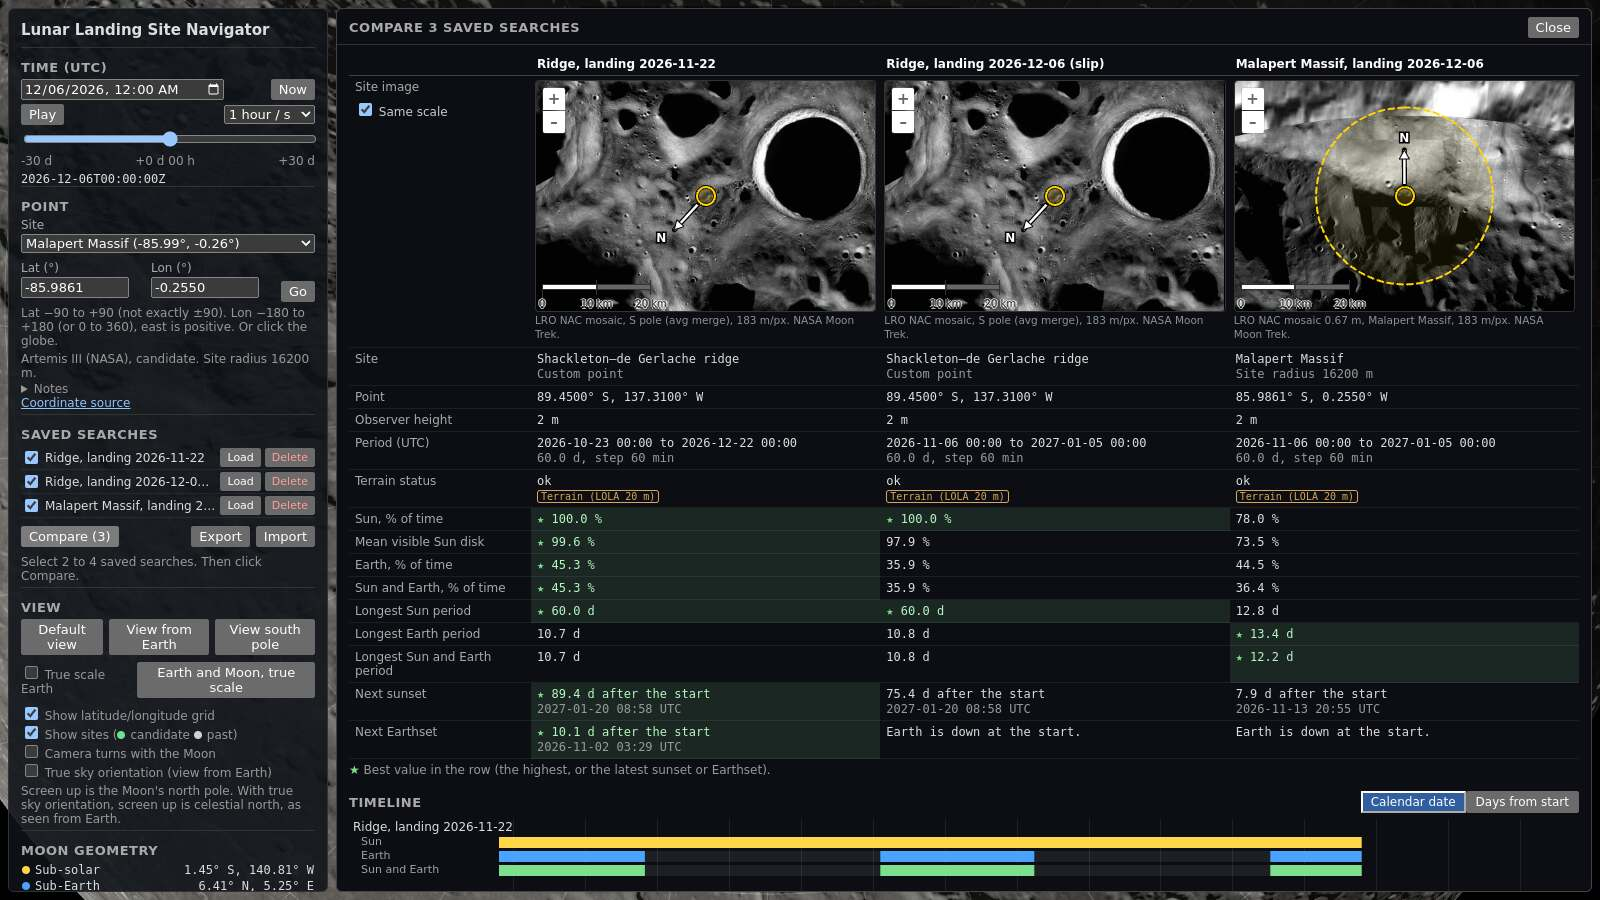
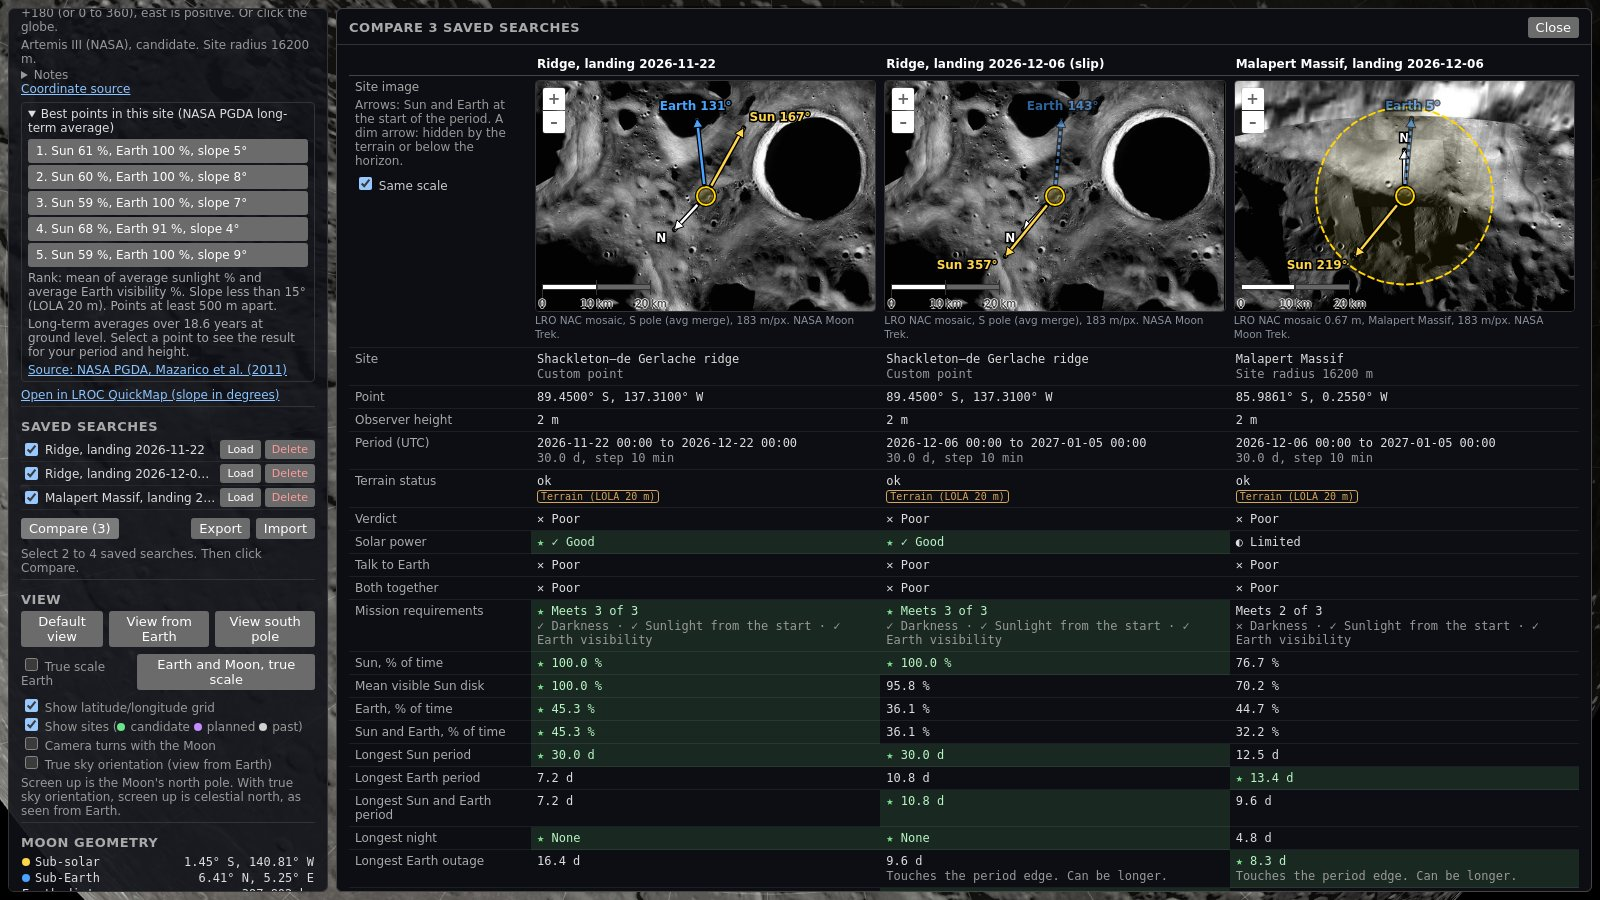
docs(guide): new overview and compare screenshots, legend for the Verdict tab
Claude-Session: https://claude.ai/code/session_013mxnkUMsKwA6gg6ceziP3G

diff --git a/ui/guide.html b/ui/guide.html
@@ -76,22 +76,22 @@
         <section id="screen">
           <h2>3. The screen <a class="anchor" href="#screen" aria-label="Link to this section">#</a></h2>
           <figure>
-            <img src="/guide/overview-annotated.jpg" width="1600" height="900" alt="The tool screen with numbered markers: 1 time, 2 point, 3 saved searches, 4 view buttons, 5 globe, 6 results with countdowns, 7 observer height, 8 sky plot, 9 site map, 10 edge arrows." />
-            <figcaption>Shackleton–de Gerlache ridge on 2026-11-22 at 00:00 UTC. The numbers refer to the list below.</figcaption>
+            <img src="/guide/overview-annotated.jpg" width="1600" height="900" alt="The tool screen with numbered markers: 1 time and period, 2 point, 3 saved searches, 4 view buttons, 5 globe, 6 results tabs, 7 mission requirements, 8 next landing window, 9 site map, 10 edge arrows." />
+            <figcaption>Shackleton–de Gerlache ridge, 1 month from 2026-11-22 00:00 UTC, with the <span class="ui">Verdict</span> tab open. The numbers refer to the list below.</figcaption>
           </figure>
           <ol class="legend">
             <li><span class="marker">1</span><strong>Time and period (left panel).</strong> The start, the duration, the slider and <span class="ui">Play</span>. See <a href="#time">Time and period</a>.</li>
-            <li><span class="marker">2</span><strong>Point (left panel).</strong> The site list and the latitude and longitude fields. See <a href="#site">Select a site</a>.</li>
+            <li><span class="marker">2</span><strong>Point (left panel).</strong> The place search, the site list, the latitude and longitude fields, and <span class="ui">↶ Back</span> and <span class="ui">↷ Forward</span>. See <a href="#site">Select a site</a>.</li>
             <li><span class="marker">3</span><strong>Saved searches (left panel).</strong> See <a href="#compare">Save and compare</a>.</li>
             <li><span class="marker">4</span><strong>View (left panel).</strong> The camera buttons for the globe. See <a href="#globe">The globe views</a>.</li>
             <li><span class="marker">5</span><strong>Globe.</strong> The Moon with the lit half, the grid and the sites. Drag to turn it. Use the mouse wheel to zoom.</li>
-            <li><span class="marker">6</span><strong>Results panel (right).</strong> It has two tabs. <span class="ui">Verdict</span> gives a short answer for the period (see <a href="#verdict">Verdict</a>). <span class="ui">Details</span> gives the selected point, the horizon tag and the two countdowns (see <a href="#results">Read the results</a>). The screenshot shows the <span class="ui">Details</span> tab.</li>
-            <li><span class="marker">7</span><strong>Observer height.</strong> It is in both tabs. See <a href="#height">Observer height</a>.</li>
-            <li><span class="marker">8</span><strong>Sky plot.</strong> The local sky over the period, in the <span class="ui">Details</span> tab. See <a href="#sky-plot">The sky plot</a>.</li>
+            <li><span class="marker">6</span><strong>Results panel (right).</strong> It has two tabs. <span class="ui">Verdict</span> gives a short answer for the period (see <a href="#verdict">Verdict</a>). <span class="ui">Details</span> gives the selected point, the horizon tag, the two countdowns and the sky plot (see <a href="#details-tab">Details</a>). The screenshot shows the <span class="ui">Verdict</span> tab.</li>
+            <li><span class="marker">7</span><strong>Mission requirements.</strong> Three limits with ✓, ✕ or ?. See <a href="#mission-requirements">Mission requirements</a>.</li>
+            <li><span class="marker">8</span><strong>Next landing window.</strong> See <a href="#landing-window">Next landing window</a>. Below it, the <span class="ui">Verdict</span> tab has the observer height (see <a href="#height">Observer height</a>) and <span class="ui">Save search</span>. Scroll the panel to see them.</li>
             <li><span class="marker">9</span><strong>Site map.</strong> NASA images of the site, with Sun and Earth arrows. See <a href="#map">The site map</a>.</li>
             <li><span class="marker">10</span><strong>Edge arrows.</strong> "To the Sun" and "To the Earth" point to a body that is off the screen.</li>
           </ol>
-          <p>In the <span class="ui">Details</span> tab, below the sky plot, the results panel also has the result for the period, the event list and <span class="ui">Check this result</span>. Scroll the results panel to see them.</p>
+          <p>The <span class="ui">Details</span> tab also has the Now values, the observer height, the sky plot, the result for the period, the event list and <span class="ui">Check this result</span>. Scroll the results panel to see them.</p>
           <p>On a computer, use a screen that is 1280 pixels wide or more. On a smaller screen, the panels cover a large part of the globe. Scroll each panel to see all of it.</p>
           <h3 id="phone">On a phone</h3>
           <p>On a phone or a narrow window (760 pixels or less), the tool shows all parts in one column. Scroll down to see them in this sequence:</p>
@@ -517,8 +517,8 @@
             <li>Click <span class="ui">Compare</span>.</li>
           </ol>
           <figure>
-            <img src="/guide/compare.jpg" width="1600" height="900" alt="The comparison panel with three columns: a table, site images and timelines." />
-            <figcaption>Comparison of three saved searches.</figcaption>
+            <img src="/guide/compare.jpg" width="1600" height="900" alt="The comparison panel with three columns: site images with Sun and Earth arrows, then the verdict rows, the mission requirements and the numbers." />
+            <figcaption>Comparison of the three saved searches of the worked example below. Scroll the panel down to see the timeline.</figcaption>
           </figure>
           <ul>
             <li><strong>The table</strong> has one column for each search. The first rows give the site, the point, the observer height, the period and the terrain status.</li>
@@ -575,7 +575,7 @@
           <p>Next, the planner can save the ridge on 2026-12-16 and compare again. On that date, the Sun and Earth are both up at the ridge.</p>
           <figure>
             <img src="/guide/compare-days.jpg" width="1600" height="900" alt="The comparison timeline with Days from start selected." />
-            <figcaption>The timeline with <span class="ui">Days from start</span>. Day 30 is the landing date of each search.</figcaption>
+            <figcaption>The timeline with <span class="ui">Days from start</span>. The screenshot shows an older layout, where each period started 30 days before the landing date. Now day 0 is the start of each period (the landing date).</figcaption>
           </figure>
         </section>
 
